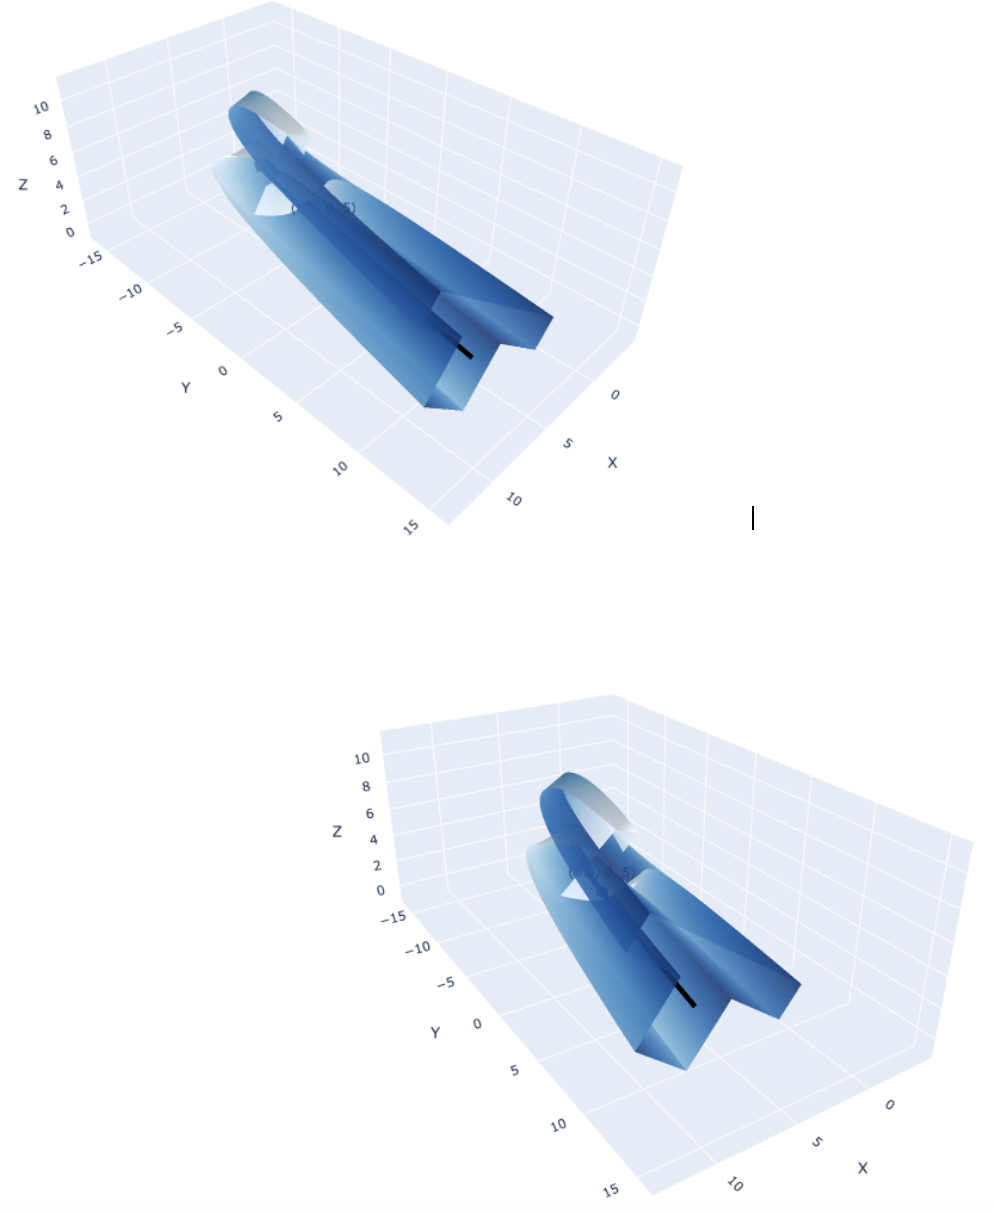
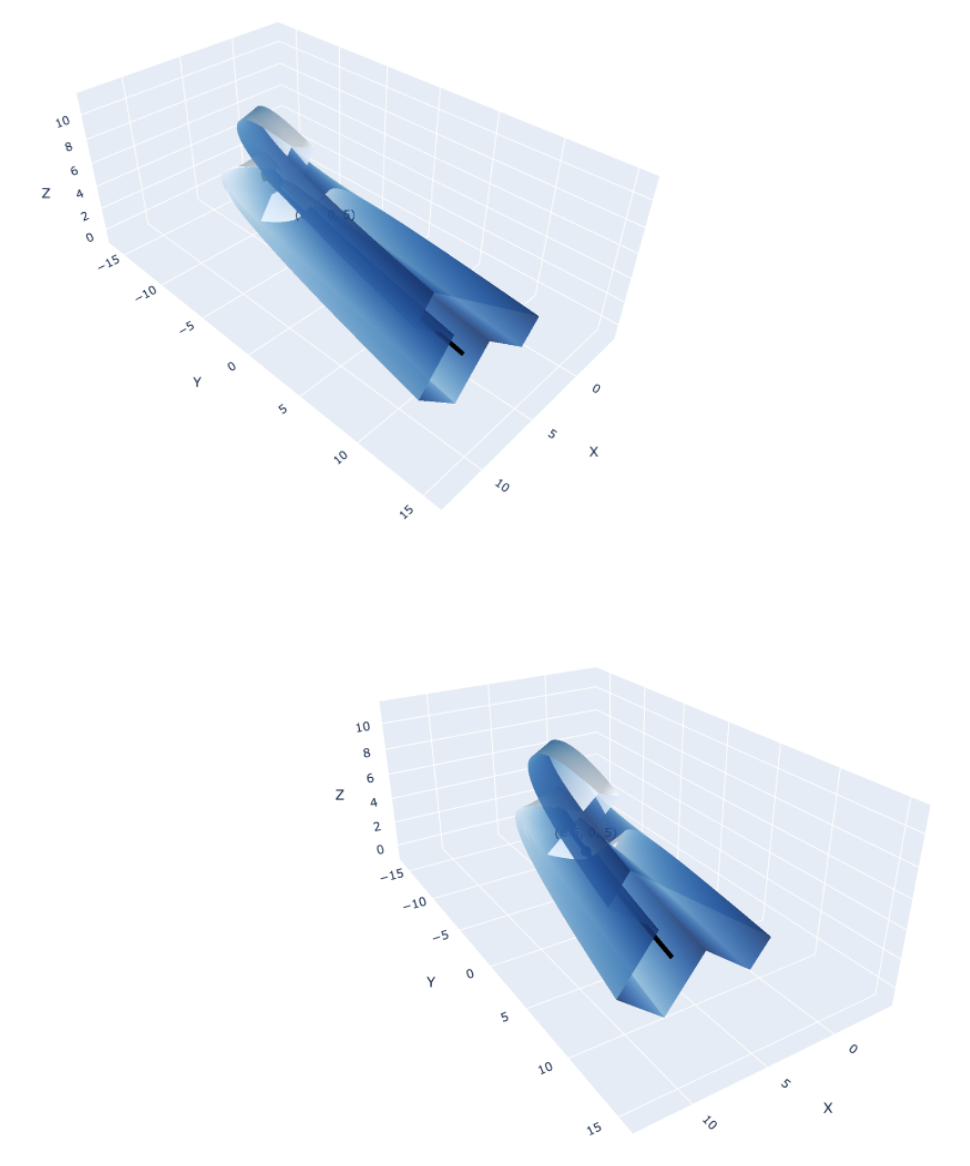
update diplomayin.md and replace image42

diff --git a/diplomayin.md b/diplomayin.md
@@ -700,15 +700,15 @@ $$
 Այստեղ $\vec e_0(u)$ և $\vec g_0(u)$ վեկտորները որոշվում են ուղղորդ կորի Ֆրենեի եռանիստի միջոցով և հաշվարկվում են հետևյալ բանաձևերով`
 
 $$
-\vec e_0(u)=
-\frac{\left(\vec r\,'(u)\times \vec r\,''(u)\right)\times \vec r\,'(u)}
-{\left|\vec r\,'(u)\times \vec r\,''(u)\right|\cdot \left|\vec r\,'(u)\right|},
+\vec e_0(u) =
+\frac{(\vec r''(u)\times \vec r'(u))\times \vec r'(u)}
+{|\vec r'(u)\times \vec r''(u)|\,|\vec r'(u)|},
 $$
 
 $$
-\vec g_0(u)=
-\frac{\vec r\,'(u)\times \vec r\,''(u)}
-{\left|\vec r\,'(u)\times \vec r\,''(u)\right|}:
+\vec g_0(u) =
+\frac{\vec r'(u)\times \vec r''(u)}
+{|\vec r'(u)\times \vec r''(u)|}:
 $$
 
 
